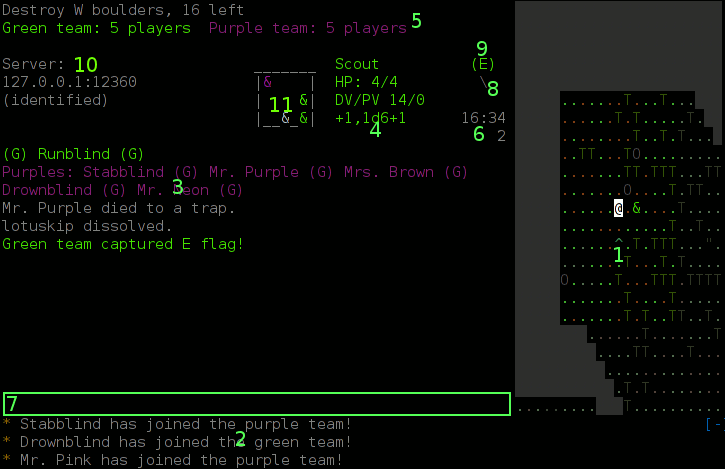
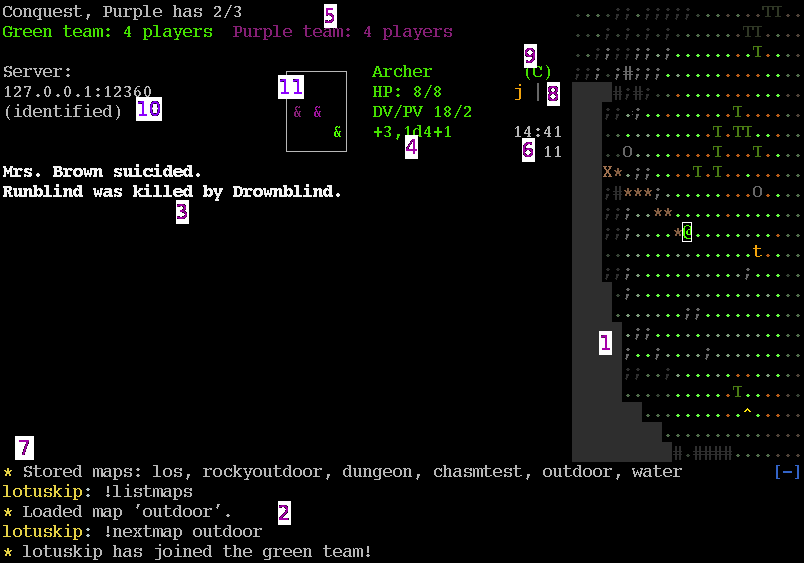
new screenshots in the manual

diff --git a/manual/introduction.html b/manual/introduction.html
@@ -23,17 +23,16 @@ The original idea was to bring the <em>feel</em> of ET into a game that visually
 <td>Intermission screen, showing a condensed view of the next map to
 play.</td></tr>
 <tr><td><a href="shot2.png"><img src="shot2t.png" height="57" width="80"></a></td>
-<td>A wizard doing havoc with homing magic missiles (this shot taken with xterm).</td></tr>
+<td>A wizard doing havoc with homing magic missiles.</td></tr>
 <tr><td><a href="shot3.png"><img src="shot3t.png" height="57" width="80"></a></td>
-<td>Intense melee in an unremarkable dungeon.</td></tr>
+<td>Intense melee in a watery dungeon.</td></tr>
 <tr><td><a href="shot4.png"><img src="shot4t.png" height="57" width="80"></a></td>
 <td>The &quot;limbo menu&quot;.</td></tr>
 <tr><td><a href="shot5.png"><img src="shot5t.png" height="57" width="80"></a></td>
-<td>Here a spectator view with the PC titles turned on.</td>
+<td>A spectator view with the PC titles turned on.</td>
 </tr>
 </table>
-The screenshots are from version 5, which means they are quite old, and certain
-things look a little different now.</p>
+The screenshots are from version 9.</p>
 <hr/>
 </div>
 

diff --git a/manual/terminals.html b/manual/terminals.html
@@ -55,6 +55,6 @@ of your terminal into something more square. This can help remove the illusion
 that things to the left and right appear to be 'closer' than things that are
 up or down. Unfortunately, good square fonts are hard to come by, especially
 if you want full unicode support. One decent square option is the font called 'cursor'.
-Here is a screenshot:<br>
+Here is a screenshot from an old version of yuxtapa:<br>
 <img src="cursorfont.png" alt="screenshot of the cursor font"></p>
 </body></html>

diff --git a/manual/clientscreen.html b/manual/clientscreen.html
@@ -2,7 +2,7 @@
 <h2>Client screen</h2>
 
 <p>A typical view of a yuxtapa client after succesfully connecting to a server and
-joining a team (screenshot from an old version!):<br>
+joining a team (explanations below):<br>
 <img src="screenshot.png" alt="yuxtapa client screenshot"></p>
 
 <p>Things you see here:

diff --git a/vhist.html b/vhist.html
@@ -96,6 +96,7 @@ intermission)</li>
 is covered by, e.g. the treasure item)</li>
 <li>Fixed a bug in zap bouncing (situation where a direct bounce back hits a PC
 immediately)</li>
+<li>Fixed (in a brutal way) a fatal bug in map generation</li>
 </ul>
 </p>
 
